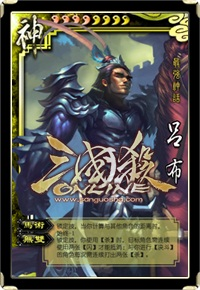
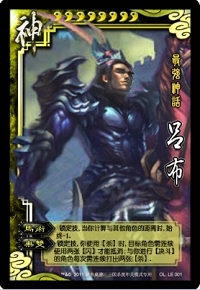
Add pixmaps for Shenlvbu1 & Shenlvbu2 without watermark

diff --git a/src/gamerule.cpp b/src/gamerule.cpp
@@ -4,6 +4,8 @@
 #include "standard.h"
 #include "engine.h"
 
+#include <QTime>
+
 GameRule::GameRule(QObject *parent)
     :TriggerSkill("game_rule")
 {
@@ -693,4 +695,138 @@ bool BossMode::trigger(TriggerEvent event, ServerPlayer *player, QVariant &data)
     }
 
     return GameRule::trigger(event, player, data);
+}
+
+HulaoPassMode::HulaoPassMode(QObject *parent)
+    :GameRule(parent)
+{
+    setObjectName("hulaopass_mode");
+}
+
+static int Transfiguration = 1;
+
+bool HulaoPassMode::trigger(TriggerEvent event, ServerPlayer *player, QVariant &data) const{
+    Room *room = player->getRoom();
+
+    switch(event){
+    case GameStart:{
+            if(player->isLord()){
+                if(setjmp(env) == Transfiguration){
+                    room->transfigure(player, "shenlvbu2", true, true);
+
+                    QList<const Card *> tricks = player->getJudgingArea();
+                    foreach(const Card *trick, tricks)
+                        room->throwCard(trick);
+
+                }else{
+                    player->drawCards(8, false);
+                }
+            }else
+                player->drawCards(player->getSeat() + 1, false);
+
+            return false;
+        }
+
+    case Death:{
+            if(player->isLord()){
+                if(player->getGeneralName() == "shenlvbu1"){
+                    longjmp(env, Transfiguration);
+                }else
+                    room->gameOver("rebel");
+            }else{
+                if(room->aliveRoles(player).length() == 1)
+                    room->gameOver("lord");
+
+                LogMessage log;
+                log.type = "#Reforming";
+                log.from = player;
+                room->sendLog(log);
+
+                player->bury();
+                room->setPlayerProperty(player, "hp", 0);
+
+                foreach(ServerPlayer *player, room->getOtherPlayers(room->getLord())){
+                    if(player->askForSkillInvoke("draw_1v3"))
+                        player->drawCards(1, false);
+                }
+            }
+
+            return false;
+        }
+
+    case TurnStart:{
+            if(player->isLord()){
+                if(!player->faceUp())
+                    player->turnOver();
+                else
+                    player->play();
+            }else{
+                if(player->isDead()){
+                    if(player->getHp() + player->getHandcardNum() == 6){
+                        LogMessage log;
+                        log.type = "#ReformingRevive";
+                        log.from = player;
+                        room->sendLog(log);
+
+                        room->revivePlayer(player);
+                    }else if(player->isWounded()){
+                        LogMessage log;
+                        log.type = "#ReformingRecover";
+                        log.from = player;
+                        room->sendLog(log);
+
+                        room->setPlayerProperty(player, "hp", player->getHp() + 1);
+                    }else
+                        player->drawCards(1, false);
+                }else if(!player->faceUp())
+                    player->turnOver();
+                else
+                    player->play();
+            }
+
+            return false;
+        }
+
+    default:
+        break;
+    }
+
+    return GameRule::trigger(event, player, data);
+}
+
+HulaoPassThread::HulaoPassThread(Room *room)
+    :room(room)
+{
+}
+
+void HulaoPassThread::run(){
+    // initialize the random seed for this thread
+    qsrand(QTime(0,0,0).secsTo(QTime::currentTime()));
+
+    ServerPlayer *lord = room->getLord();
+    room->setPlayerProperty(lord, "general", "shenlvbu1");
+
+    const Package *stdpack = Sanguosha->findChild<const Package *>("standard");
+    const Package *windpack = Sanguosha->findChild<const Package *>("wind");
+
+    QList<const General *> generals = stdpack->findChildren<const General *>();
+    generals << windpack->findChildren<const General *>();
+
+    QStringList names;
+    foreach(const General *general, generals){
+        names << general->objectName();
+    }
+    names << "xiaoqiao" << "yuji";
+
+    foreach(ServerPlayer *player, room->findChildren<ServerPlayer *>()){
+        if(player == lord)
+            continue;
+
+        qShuffle(names);
+        QStringList choices = names.mid(0, 3);
+        QString name = room->askForGeneral(player, choices);
+
+        room->setPlayerProperty(player, "general", name);
+        names.removeOne(name);
+    }
 }

diff --git a/src/room.cpp b/src/room.cpp
@@ -849,6 +849,13 @@ void Room::swapPile(){
         gameOver(".");
     }
 
+    int times = tag.value("SwapPile", 0).toInt();
+    tag.insert("SwapPile", ++times);
+    if(times == 2 && mode == "04_1v3")
+        gameOver(".");
+    else if(times == 10)
+        gameOver(".");
+
     qSwap(draw_pile, discard_pile);
 
     broadcastInvoke("clearPile");
@@ -1033,6 +1040,11 @@ void Room::timerEvent(QTimerEvent *event){
             thread_1v1->start();
 
             connect(thread_1v1, SIGNAL(finished()), this, SLOT(startGame()));
+        }else if(mode == "04_1v3"){
+            HulaoPassThread *hulao_thread = new HulaoPassThread(this);
+            hulao_thread->start();
+
+            connect(hulao_thread, SIGNAL(finished()), this, SLOT(startGame()));
         }else{
             QStringList lord_list = Sanguosha->getRandomLords();
             QString default_lord = lord_list[qrand() % lord_list.length()];
@@ -1790,7 +1802,7 @@ void Room::startGame(){
         }
     }
 
-    if((Config.Enable2ndGeneral || mode == "08boss") && mode != "02_1v1" && mode != "06_3v3"){
+    if((Config.Enable2ndGeneral || mode == "08boss") && mode != "02_1v1" && mode != "06_3v3" && mode != "04_1v3"){
         foreach(ServerPlayer *player, players)
             broadcastProperty(player, "general2");
     }
@@ -1839,6 +1851,8 @@ void Room::startGame(){
     GameRule *game_rule;
     if(mode == "08boss")
         game_rule = new BossMode(this);
+    else if(mode == "04_1v3")
+        game_rule = new HulaoPassMode(this);
     else
         game_rule = new GameRule(this);
 
@@ -2528,17 +2542,17 @@ ServerPlayer *Room::askForPlayerChosen(ServerPlayer *player, const QList<ServerP
 }
 
 QString Room::askForGeneral(ServerPlayer *player, const QStringList &generals){
-    AI *ai = player->getAI();
-    if(ai)
-        return generals.first();
+    if(player->getState() == "online"){
+        player->invoke("askForGeneral", generals.join("+"));
+        getResult("chooseGeneralCommand", player);
 
-    player->invoke("askForGeneral", generals.join("+"));
-    getResult("chooseGeneralCommand", player);
+        if(result.isEmpty() || result == ".")
+            return generals.first();
+        else
+            return result;
+    }
 
-    if(result.isEmpty() || result == ".")
-        return generals.first();
-    else
-        return result;
+    return generals.first();
 }
 
 void Room::kickCommand(ServerPlayer *player, const QString &arg){

diff --git a/src/roomthread.cpp b/src/roomthread.cpp
@@ -228,6 +228,27 @@ void RoomThread::run(){
 
     if(room->mode == "06_3v3"){
         run3v3();
+    }else if(room->getMode() == "04_1v3"){
+        QList<ServerPlayer *> circle;
+
+        ServerPlayer *shenlvbu = room->getLord();
+        if(shenlvbu->getGeneralName() == "shenlvbu1"){
+            circle << shenlvbu
+                    << room->players.at(1)
+                    << shenlvbu
+                    << room->players.at(2)
+                    << shenlvbu
+                    << room->players.at(3);
+        }else{
+            circle = room->players;
+        }
+
+        forever{
+            foreach(ServerPlayer *player, circle){
+                room->setCurrent(player);
+                trigger(TurnStart, room->getCurrent());
+            }
+        }
     }else{
         if(room->getMode() == "02_1v1")
             room->setCurrent(room->players.at(1));

diff --git a/src/gamerule.h b/src/gamerule.h
@@ -30,5 +30,29 @@ public:
     virtual bool trigger(TriggerEvent event, ServerPlayer *player, QVariant &data) const;
 };
 
+class HulaoPassMode: public GameRule{
+    Q_OBJECT
+
+public:
+    HulaoPassMode(QObject *parent);
+
+    virtual bool trigger(TriggerEvent event, ServerPlayer *player, QVariant &data) const;
+
+private:
+    mutable jmp_buf env;
+};
+
+class HulaoPassThread: public QThread{
+    Q_OBJECT
+
+public:
+    HulaoPassThread(Room *room);
+
+    virtual void run();
+
+private:
+    Room *room;
+};
+
 
 #endif // GAMERULE_H

diff --git a/src/photo.cpp b/src/photo.cpp
@@ -558,8 +558,7 @@ void Photo::paint(QPainter *painter, const QStyleOptionGraphicsItem *option, QWi
                 death_pixmap = death_pixmap.scaled(death_pixmap.size() / (1.5));
         }
 
-        painter->drawPixmap(death_x, 30, death_pixmap);
-        return;
+        painter->drawPixmap(death_x, 25, death_pixmap);
     }
 
     int n = player->getHandcardNum();

diff --git a/src/engine.cpp b/src/engine.cpp
@@ -417,6 +417,9 @@ void Engine::getRoles(const QString &mode, char *roles) const{
     if(mode == "02_1v1"){
         qstrcpy(roles, "ZN");
         return;
+    }else if(mode == "04_1v3"){
+        qstrcpy(roles, "ZFFF");
+        return;
     }
 
     if(modes.contains(mode)){
